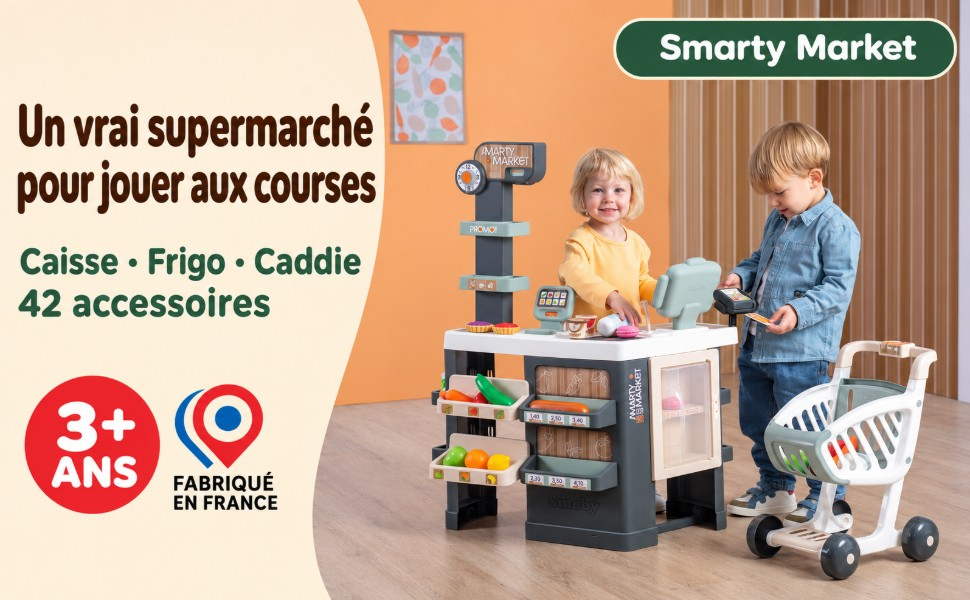
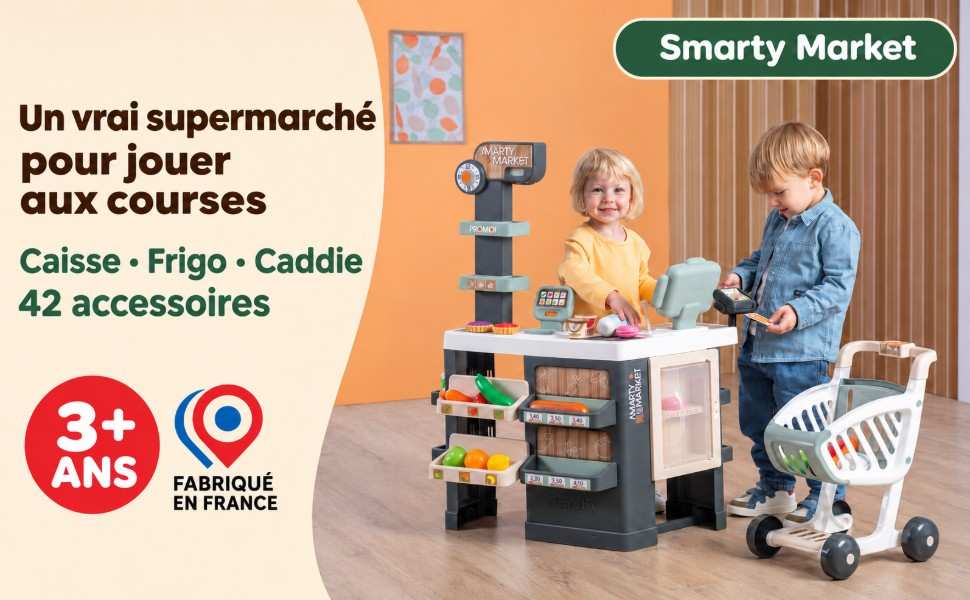
Smarty Market : hero texte non etire; dec2.py

diff --git a/tools/dec2.py b/tools/dec2.py
@@ -1,0 +1,4 @@
+# usage: python3 dec2.py <tool-result.txt> <out.jpg>
+import sys,base64
+t=open(sys.argv[1]).read(); i=t.find('B64START')+8; j=t.find('B64END',i)
+open(sys.argv[2],'wb').write(base64.b64decode(t[i:j]))
